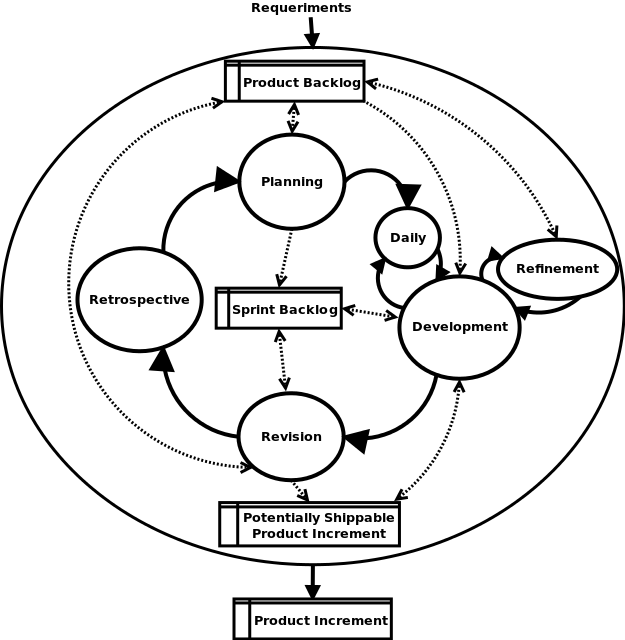
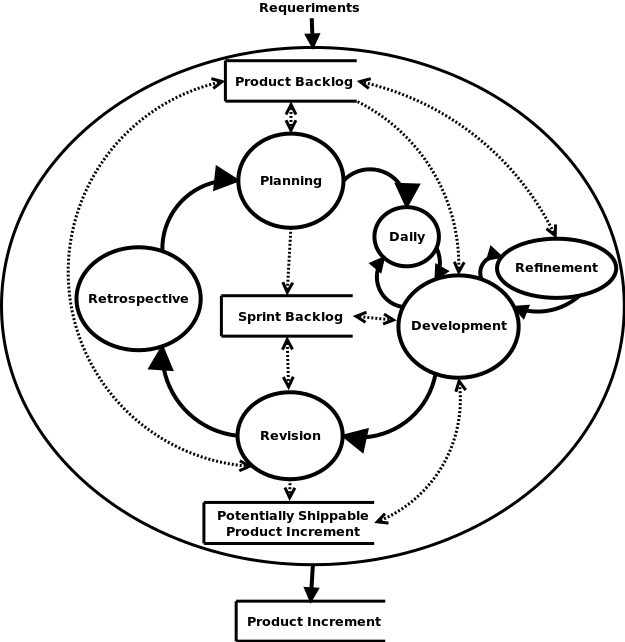
Add Scrum System Core diagram and text

diff --git a/content/scrum_system.tex b/content/scrum_system.tex
@@ -1,20 +1,31 @@
-\chapter{Sistema Scrum}
+\chapter{Núcleo del Sistema Scrum}
 
-\section{Estructura Scrum}
-
-Scrum está pensado como un proceso de trabajo para equipos con tres roles: el Product Owner, el ScrumMaster y Miembros del Equipo de Desarrollo o Desarrolladores Scrum. 
-
-Ejercendo los roles mencionados en un flujo de trabajo Scrum se trabaja sobre tres artefactos esenciales: el Product Backlog (lo que nos queda por hacer), el Sprint Backlog (lo que vamos a hacer) y el Incremento de Producto (lo que logramos hacer). Estos artefactos son tratados en un flujo de trabajo en el cual se construyen productos en forma incremental, en una serie de ciclos cortos de tiempo llamados Sprints. 
-
-En cada ciclo Sprint del flujo de trabajo se practican cinco actividades Scrum: refinamiento de producto, planificación, reunión diaria, revisión de producto y retrospectiva. La actividad de  refinamiento de producto (Refinement) no suele tener un nombre unificado; pues, se la suele llamar "Backlog Grooming"\footnote{No se aconseja usar el térmio Grooming debido a que según el diccionario Oxford English Dictionary tiene connotaciones que se presta para interpretaciones sexuales.} (aunque no se aconseja usar la palabra grooming), Manteniemiento de Baclog o Refinamiento (Refinement).
-
-\section{Sistema de Roles}
-
-(ver figura \ref{fig:ScrumRolesSystem})
+Scrum es un sistema compuesto por la filosofía Scrum (SCRUM Philosophy), como parte del sistema cultural, y tres conjuntos de componentes interrelacionados que forman el Núcleo del Sistema Scrum (ver figura \ref{fig:ScrumSystemCore}). Los tres conjuntos de componentes son: roles, actividades y artefactos. Los roles conforman un sistema de roles que determina las responsabilidades de los actores integrantes, sus relaciones recíprocas, sus restricciones y la relación con los demás componentes. Las actividades conforman la parte principal del sistema de procesos Scrum (Proceso Scrum) que determina las relaciones de organización entre actividades, roles y artefactos. Y los artefactos conforman el conjunto de almacenes o componentes de trabajo. A continuación se describiran estos sistemas y sus relaciones.
 
 \begin{figure}[h]
   \centering
-  \includegraphics[scale=0.5]{ScrumRolesSystem}
+  \includegraphics[scale=0.5]{ScrumSystemCore}
+  \caption{Diagrama del Núcleo del Sistema Scrum}
+  \centering
+  \label{fig:ScrumSystemCore} %\ref{fig:ScrumSystemCore}
+\end{figure}
+
+
+\section{Estructura del Sistema Scrum}
+
+Scrum está pensado como un sistema de trabajo para equipos con tres roles principales: el Product Owner, el Scrum Master y el Scrum Team. 
+
+Cuando los integrantes del sistema Scrum ejercen los roles mencionados en un flujo de trabajo o proceso Scrum, trabajan sobre tres artefactos esenciales: el Product Backlog (lo que queda por hacer), el Sprint Backlog (lo que se va a hacer) y el Incremento de Producto (lo que logramos hacer). Estos artefactos son tratados en un flujo de trabajo en el cual se construyen productos en forma incremental, en una serie de ciclos cortos de tiempo llamados Sprints. 
+
+En cada ciclo Sprint del flujo de trabajo se practican seis actividades Scrum: refinamiento de producto, planificación, reunión diaria o Daily, desarrollo, revisión de producto y retrospectiva. La actividad de refinamiento de producto (Refinement) no suele tener un nombre unificado; pues, se la suele llamar "Backlog Grooming"\footnote{No se aconseja usar el térmio Grooming debido a que según el diccionario Oxford English Dictionary tiene connotaciones que se presta para interpretaciones sexuales.} (aunque no se aconseja usar la palabra grooming), Manteniemiento de Baclog o Refinamiento (Refinement). Salvo el desarrollo, las actividades se consideran reuniones o ceremonias Scrum. El desarrollo no es una reunión Scrum ya que constituye la actividad de producción del producto o servicio. O sea que es donde se produce el incremento de producto.
+
+\section{Sistema de Roles}
+
+El Sistema de Roles (ver figura \ref{fig:ScrumRolesSystem}) es el conjunto de roles y relaciones parte del sistema Scrum. Como se mencionó anteriormente hay tres roles principales: el Product Owner o dueño del producto, el Scrum Master o facilitador y el Scrum Team o Equipo Scrum (Miembros del Equipo de Desarrollo o Desarrolladores Scrum). Tambien hay roles secundarios como el de Stakeholder, Vendedores y Cuerpo de Asesoramiento de Scrum. El rol Stakeholder es el más importante de los roles secundarios e incluye a los clientes, usuarios y patrocinadores.
+
+\begin{figure}[h]
+  \centering
+  \includegraphics[scale=0.7]{ScrumRolesSystem}
   \caption{Diagrama del Sistema de Roles Scrum}
   \centering
   \label{fig:ScrumRolesSystem} %\ref{fig:ScrumRolesSystem}
@@ -22,11 +33,11 @@ En cada ciclo Sprint del flujo de trabajo se practican cinco actividades Scrum: 
 
 \section{Proceso Scrum}
 
-En el proceso Scrum o sistema de flujo de actividades Scrum los miembros del equipo Scrum colaboran para crear una serie de Incrementos de Producto durante iteraciones de intervalos fijos de tiempo denominados Sprints. En cada Sprint, se comienza por una Planificación del Sprint para producir un Backlog del Sprint a partir del Backlog de Producto, es decir un plan para el Sprint. El equipo se auto-organiza para realizar el Desarrollo, mediante reuniones Diarias de Scrum para coordinar y asegurarse de estar produciendo el mejor Incremento de Producto posible en el proceso de desarrollo del producto o servicio. Cada incremento satisface el criterio de aceptación del Product Owner y la Definición de Hecho o "Definition of Done" compartida por el equipo para satisfacer el criterio de tarea terminada. Junto al proceso de desarrollo se hace también un Refinamiento del Backlog ("Refinement") para prepararse para la reunión de planificación del próximo Sprint. Finalizando cada ciclo se termina el Sprint con una reunión de Revisión del Sprint y luego una reunión Retrospectiva del Sprint, revisando el producto y su proceso con una perspectiva crítica y de mejora contínua. 
+En el proceso Scrum o sistema de flujo de actividades Scrum los miembros del equipo Scrum colaboran para crear una serie de Incrementos de Producto durante iteraciones de intervalos fijos de tiempo denominados Sprints. En cada iteración Sprint, se comienza por una Planificación del Sprint para producir un Backlog del Sprint a partir del Backlog de Producto, es decir un plan para el Sprint. El equipo se auto-organiza para realizar el Desarrollo, mediante reuniones Diarias de Scrum para coordinar y asegurarse de estar produciendo el mejor Incremento de Producto posible en el proceso de desarrollo del producto o servicio. Cada incremento satisface el criterio de aceptación del Product Owner y la Definición de Hecho o "Definition of Done" compartida por el equipo para satisfacer el criterio de tarea terminada. Junto al proceso de desarrollo se hace también un Refinamiento del Backlog ("Refinement") para prepararse para la reunión de planificación del próximo Sprint. Finalizando cada ciclo se termina el Sprint con una reunión de Revisión del Sprint y luego una reunión Retrospectiva del Sprint, revisando el producto y su proceso con una perspectiva crítica y de mejora contínua. 
 
 \begin{figure}[h]
   \centering
-  \includegraphics[scale=0.5]{ScrumFlow}
+  \includegraphics[scale=0.6]{ScrumFlow}
   \caption{Diagrama de Flujo de Datos del Proceso Scrum}
   \centering
   \label{fig:ScrumFlow} %\ref{fig:ScrumFlow}
@@ -39,7 +50,7 @@ Los artefactos ítems de trabajo fluyen desde que se definen en el Backlog de Pr
 
 \begin{figure}[h]
   \centering
-  \includegraphics[scale=0.4]{ScrumArtifactsStockFlow}
+  \includegraphics[scale=0.45]{ScrumArtifactsStockFlow}
   \caption{Diagrama de Flujo de Stock de artefactos Scrum}
   \centering
   \label{fig:ScrumArtifactsStockFlow} %\ref{fig:ScrumArtifactsStockFlow}

diff --git a/content/philosophy.tex b/content/philosophy.tex
@@ -4,7 +4,7 @@ Discriminando todas las filosofías generales, como ideologías y concepciones r
 
 \section{Mentalidad y modelos mentales}
 
-Las personas que participan en el desarrollo de sistemas, diseños organizacionales o industrias de software tienen experiencias, creencias, principios, vivencias y valores que repercuten y condicionan el modo en que ellas perciben la realidad de su día a día y, en consecuencia, repercuten y condicionan su actuar, su forma de hacer, su trabajo y el resultado del mismo, sistemas hombre-máquina o software. Estas ideas, en los gerentes y desarrolladores, son modelos mentales que conforman una mentalidad, o lo que se denomina mindset (Masa Maeda 2012). O sea que la filosofía que una persona siga o adhiera está relacionada a los modelos mentales de esa persona y forja su mentalidad o mindset que en algún sentido lo guía.
+Las personas que participan en el desarrollo de sistemas, diseños organizacionales o industrias de software tienen experiencias, creencias, principios, vivencias y valores que repercuten y condicionan el modo en que ellas perciben la realidad de su día a día y, en consecuencia, repercuten y condicionan su actuar, su forma de hacer, su trabajo y el resultado del mismo, sistemas hombre-máquina o software. Estas ideas, en los gerentes y desarrolladores, son modelos mentales que conforman una mentalidad, o lo que se denomina mindset (Masa Maeda 2012 \footnote{Masa K Maeda es PhD, Founder and CEO de Valueinnova USA (capacitación Scrum). Es el creador de Serious LeAP, consultor senior del Cutter Consortium en Boston, miembro del comité de dirección del Agile Testing Alliance y maestro en la Universidad de California en Berkeley. Es pionero de Lean y Kanban para trabajo de conocimiento y uno de los formadores del Lean Kanban University. Es una figura líder mundial en Agile y ha generado Serious Games de alto calibre. Previamente hizo I+D para Apple Inc en USA y para Justsystems en Japón. Obtuvo el doctorado y la maestría en Japón.}). O sea que la filosofía que una persona siga o adhiera está relacionada a los modelos mentales de esa persona y forja su mentalidad o mindset que en algún sentido lo guía.
 
 Los modelos mentales pueden definirse como: “imágenes internas, que están profundamente arraigadas, de cómo funciona el mundo, imágenes que nos limitan a las formas familiares de pensar y actuar”. Los modelos mentales abarcan cuestiones acerca de cómo vemos el mundo y de cómo actuamos en el mundo. 
 
@@ -108,4 +108,3 @@ Se suele asociar a los valores del Manifiesto Ágil como principios de Scrum. Po
 \item \textbf{Desarrollo iterativo:} El desarrollo iterativo permite una construcción gradual en proyectos complejos. En cada iteración el equipo evoluciona el producto (hace una entrega incremental) a partir de los resultados completados en las iteraciones anteriores, añadiendo nuevos objetivos/requisitos o mejorando los que ya fueron completados, de manera que el cliente pueda obtener los beneficios del proyecto de forma incremental. El desarrollo iterativo permite gestionar las expectativas del cliente (requisitos desarrollados, velocidad de desarrollo, calidad) de manera regular y lograr reacción, aceptación del mercado y adaptabilidad. Permite que el cliente pueda obtener resultados importantes y útiles ya desde las primeras iteraciones. Facilita la mejora ya que al tener experiencias por períodos de iteración se puede mejorar de las experiencias de iteraciones previas y permite planificar los cambios necesarios para aumentar la productividad y calidad en iteraciones subsiguientes.
 
 \end{enumerate}
-

diff --git a/content/introduction.tex b/content/introduction.tex
@@ -14,7 +14,7 @@ sino que dice el qué hacer. Sin embrargo, hay autores y guías que tratan a Scr
 En el primer caso puede deberse a que se puede considerar una metodología como un proceso de desarrollo iterativo e incremental de productos \cite{Ken-Schwaber-1995}. Y en el segundo caso porque se puede considerar que es una alternativa a la gestión clásica de proyectos propuesta por metodologías como la Metodología de Gestión de Proyectos PMI. En este último sentido podemos recordar la definición original de Ken Schwaber: "Scrum es una metodología de gestión, mejora y mantenimiento de un sistema existente o prototipo de producción" \cite{Ken-Schwaber-1995}.
  
 Por otro lado, considerando que Scrum define roles, artefactos, actividades, flujo del ciclo de actividades Scrum \cite{Agile-Atlas-2012}, reglas y algunas sugerencias de implementación como, además, al definir el flujo del ciclo de Scrum o flujo de trabajo define parcialmente un cómo, en el cual incluye una secuencia básica de cosas a hacer; por eso, y sin ser puristas, se puede considerar como una forma de metodología de trabajo y de gestión. O sea que puede funcionar como una metodología a alto nivel o plataforma de trabajo sobre la cual pueden funcionar otras metodologías, más específicas de producción y desarrollo, y otras técnicas y procesos. Por este motivo, 
-Scrum puede ser adaptada a diversas empresas y organizaciones que trabajen con metodologías diversas pero compatibles con los 
+Scrum puede ser adaptado a diversas empresas y organizaciones que trabajen con metodologías diversas pero compatibles con los 
 lineamientos de Scrum (sus valores y principios) y del Movimiento Ágil (filosofía ágil). Se puede usar Scrum y a su vez utilizar técnicas de otras metodologías para implementar sus actividades y sugerencias. O sea que cuando se usa Scrum se hace una aproximación empleando diversas técnicas y, posiblemente, otras metodologías.
 
 \subsection{Ámbito de aplicación}

diff --git a/content/origin.tex b/content/origin.tex
@@ -85,6 +85,8 @@ En un sentido lato y ortodoxo se puede decir que el Modelo en Cascada refleja un
 
 \subsubsection{Metodología en Cascada}
 
+La convinación del "Modelo en Cascada" con la "Gestión de Proyectos Clásica" conforma la metodología e idea de desarrollo de proyectos en forma de cascada. La idea se relaciona con una "carrera de relevos secuencial" en la que está incluida la administración del proyecto (proceso de gestión) y la producción del mismo (proceso de desarrollo) en una secuencia prácticamente lineal y en faces secuenciales.
+
 \begin{figure}[h]
   \centering
   \includegraphics[scale=0.5]{WaterfallMethodology}

diff --git a/content/scaling.tex b/content/scaling.tex
@@ -8,7 +8,7 @@ Abordar el problema de proyectos grandes con "Equipos Scrum de características"
 
 \begin{figure}[h]
   \centering
-  \includegraphics[scale=0.4]{ScrumTeamsByFeaturesAndByComponents}
+  \includegraphics[scale=0.5]{ScrumTeamsByFeaturesAndByComponents}
   \caption{Equipos de Características (izq.) y Equipos de Componentes (derecha)}
   \centering
   \label{fig:ScrumTeamsByFeaturesAndByComponents} %\ref{fig:ScrumTeamsByFeaturesAndByComponents}
